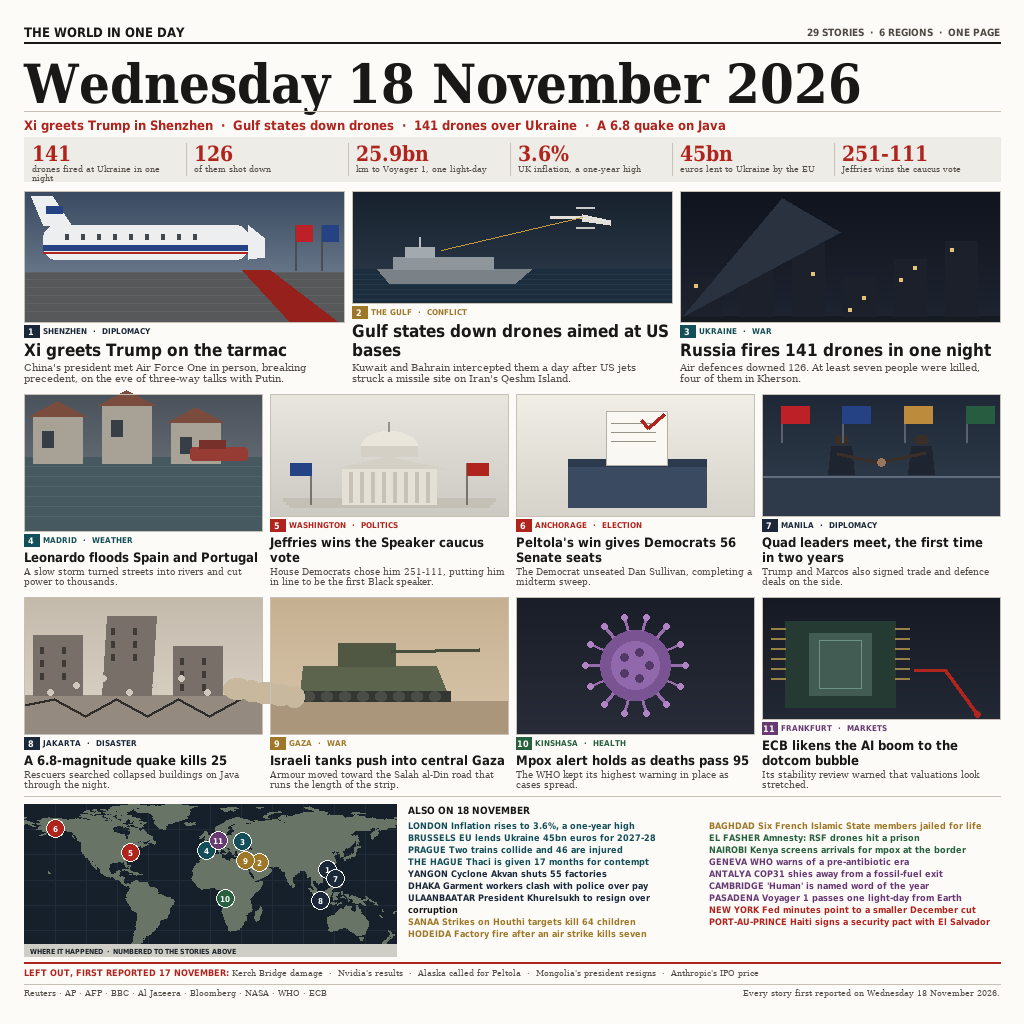
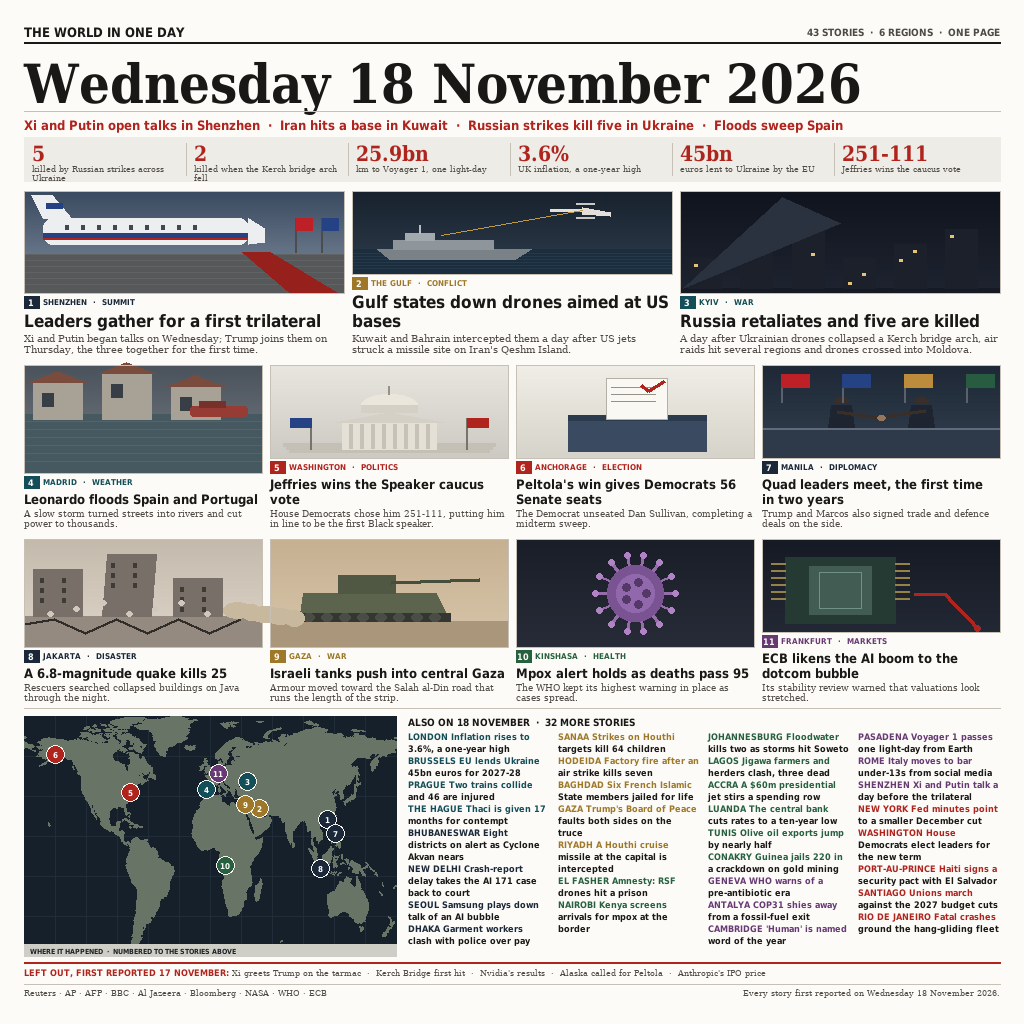
Broaden briefs to 32 stories in four columns at 8px, reframe Ukraine tile as the 18 Nov strike

diff --git a/src/render.py b/src/render.py
@@ -68,10 +68,10 @@ def F(kind: str, size: int):
 # --- the day's stories -----------------------------------------------------
 TILES = [
     {
-        "region": "Asia", "place": "Shenzhen", "topic": "Diplomacy",
-        "headline": "Xi greets Trump on the tarmac",
-        "deck": "China's president met Air Force One in person, breaking precedent, "
-                "on the eve of three-way talks with Putin.",
+        "region": "Asia", "place": "Shenzhen", "topic": "Summit",
+        "headline": "Leaders gather for a first trilateral",
+        "deck": "Xi and Putin began talks on Wednesday; Trump joins them on Thursday, "
+                "the three together for the first time.",
         "art": "tarmac",
     },
     {
@@ -82,10 +82,10 @@ TILES = [
         "art": "drones",
     },
     {
-        "region": "Europe", "place": "Ukraine", "topic": "War",
-        "headline": "Russia fires 141 drones in one night",
-        "deck": "Air defences downed 126. At least seven people were killed, four "
-                "of them in Kherson.",
+        "region": "Europe", "place": "Kyiv", "topic": "War",
+        "headline": "Russia retaliates and five are killed",
+        "deck": "A day after Ukrainian drones collapsed a Kerch bridge arch, air "
+                "raids hit several regions and drones crossed into Moldova.",
         "art": "blackout",
     },
     {
@@ -145,25 +145,39 @@ BRIEFS = [
     ("Europe", "Brussels", "EU lends Ukraine 45bn euros for 2027-28"),
     ("Europe", "Prague", "Two trains collide and 46 are injured"),
     ("Europe", "The Hague", "Thaci is given 17 months for contempt"),
-    ("Asia", "Yangon", "Cyclone Akvan shuts 55 factories"),
+    ("Asia", "Bhubaneswar", "Eight districts on alert as Cyclone Akvan nears"),
+    ("Asia", "New Delhi", "Crash-report delay takes the AI 171 case back to court"),
+    ("Asia", "Seoul", "Samsung plays down talk of an AI bubble"),
     ("Asia", "Dhaka", "Garment workers clash with police over pay"),
-    ("Asia", "Ulaanbaatar", "President Khurelsukh to resign over corruption"),
     ("MidEast", "Sanaa", "Strikes on Houthi targets kill 64 children"),
     ("MidEast", "Hodeida", "Factory fire after an air strike kills seven"),
     ("MidEast", "Baghdad", "Six French Islamic State members jailed for life"),
+    ("MidEast", "Gaza", "Trump's Board of Peace faults both sides on the truce"),
+    ("MidEast", "Riyadh", "A Houthi cruise missile at the capital is intercepted"),
     ("Africa", "El Fasher", "Amnesty: RSF drones hit a prison"),
     ("Africa", "Nairobi", "Kenya screens arrivals for mpox at the border"),
+    ("Africa", "Johannesburg", "Floodwater kills two as storms hit Soweto"),
+    ("Africa", "Lagos", "Jigawa farmers and herders clash, three dead"),
+    ("Africa", "Accra", "A $60m presidential jet stirs a spending row"),
+    ("Africa", "Luanda", "The central bank cuts rates to a ten-year low"),
+    ("Africa", "Tunis", "Olive oil exports jump by nearly half"),
+    ("Africa", "Conakry", "Guinea jails 220 in a crackdown on gold mining"),
     ("World", "Geneva", "WHO warns of a pre-antibiotic era"),
     ("World", "Antalya", "COP31 shies away from a fossil-fuel exit"),
     ("World", "Cambridge", "'Human' is named word of the year"),
     ("World", "Pasadena", "Voyager 1 passes one light-day from Earth"),
+    ("World", "Rome", "Italy moves to bar under-13s from social media"),
+    ("World", "Shenzhen", "Xi and Putin talk a day before the trilateral"),
     ("Americas", "New York", "Fed minutes point to a smaller December cut"),
+    ("Americas", "Washington", "House Democrats elect leaders for the new term"),
     ("Americas", "Port-au-Prince", "Haiti signs a security pact with El Salvador"),
+    ("Americas", "Santiago", "Unions march against the 2027 budget cuts"),
+    ("Americas", "Rio de Janeiro", "Fatal crashes ground the hang-gliding fleet"),
 ]
 
 NUMBERS = [
-    ("141", "drones fired at Ukraine in one night"),
-    ("126", "of them shot down"),
+    ("5", "killed by Russian strikes across Ukraine"),
+    ("2", "killed when the Kerch bridge arch fell"),
     ("25.9bn", "km to Voyager 1, one light-day"),
     ("3.6%", "UK inflation, a one-year high"),
     ("45bn", "euros lent to Ukraine by the EU"),
@@ -171,16 +185,16 @@ NUMBERS = [
 ]
 
 DATE_CHECK = [
-    "Kerch Bridge damage",
+    "Xi greets Trump on the tarmac",
+    "Kerch Bridge first hit",
     "Nvidia's results",
     "Alaska called for Peltola",
-    "Mongolia's president resigns",
     "Anthropic's IPO price",
 ]
 
 BILLBOARD = (
-    "Xi greets Trump in Shenzhen  ·  Gulf states down drones  ·  "
-    "141 drones over Ukraine  ·  A 6.8 quake on Java"
+    "Xi and Putin open talks in Shenzhen  ·  Iran hits a base in Kuwait  ·  "
+    "Russian strikes kill five in Ukraine  ·  Floods sweep Spain"
 )
 
 
@@ -636,7 +650,7 @@ def draw_map(draw, box, pins):
 PINS = [
     (114.06, 22.54, NAVY, 1),
     (48.0, 29.0, GOLD, 2),
-    (31.0, 49.0, TEAL, 3),
+    (36.5, 45.3, TEAL, 3),
     (-3.7, 40.4, TEAL, 4),
     (-77.0, 38.9, RED, 5),
     (-149.9, 61.2, RED, 6),
@@ -693,7 +707,7 @@ def build(out_path: str) -> None:
     y += strip_h + 10
 
     # ---- the tiles: three wide, then two rows of four ----
-    rail_h = 152
+    rail_h = 240
     rail_top = BOTTOM - 44 - rail_h
     tile_top = y
     rows = [[0, 1, 2], [3, 4, 5, 6], [7, 8, 9, 10]]
@@ -761,36 +775,48 @@ def build(out_path: str) -> None:
 
     bx = MARGIN + map_w + 12
     bw = W - MARGIN - bx
-    d.text((bx, rail_top), "ALSO ON 18 NOVEMBER", font=F("sans_cb", 10), fill=INK)
-    by = rail_top + 16
+    d.text((bx, rail_top), f"ALSO ON 18 NOVEMBER  ·  {len(BRIEFS)} MORE STORIES",
+           font=F("sans_cb", 10), fill=INK)
+    by = rail_top + 15
+    room = rail_top + rail_h - by - 2
 
-    colw = (bw - 10) // 2
+    # The briefs are the page's breadth, so they get the whole rail. Largest
+    # type first — the judge reads a 300px thumbnail before it reads a word —
+    # then the column count that lets that size fit. Line counts are measured
+    # with the real font, never guessed.
+    wrapped = []
+    chosen = None
     for size in range(9, 5, -1):
         bfont = F("sans_cb", size)
         lead = size + 3
-        per_col = (rail_top + rail_h - by) // lead
-        total = sum(len(wrap(d, f"{city.upper()}  {text}", bfont, colw))
-                    for _, city, text in BRIEFS)
-        if total <= per_col * 2:
+        per_col = room // lead
+        for ncol in (3, 4, 2, 5):
+            gut = 9
+            colw = (bw - gut * (ncol - 1)) // ncol
+            wrapped = [(region, wrap(d, f"{city.upper()}  {text}", bfont, colw))
+                       for region, city, text in BRIEFS]
+            total = sum(len(ls) for _, ls in wrapped)
+            if total <= per_col * ncol:
+                chosen = (ncol, gut, colw, bfont, lead, per_col, total)
+                break
+        if chosen:
             break
+    assert chosen, "the briefs do not fit any column count"
+    ncol, gut, colw, bfont, lead, per_col, total = chosen
 
-    # balance the two columns by line count, not by first-fit: 18 briefs in a
-    # 10/8 split leaves one column hanging
-    wrapped = [(region, wrap(d, f"{city.upper()}  {text}", bfont, colw))
-               for region, city, text in BRIEFS]
-    total = sum(len(ls) for _, ls in wrapped)
-    target = (total + 1) // 2
-
+    # Fill column by column, breaking only where the next brief would overrun,
+    # so every column ends near the same height instead of one hanging short.
     col, cy, used = 0, by, 0
     for region, lines in wrapped:
-        if col == 0 and used + len(lines) > target and used > 0:
-            col, cy, used = 1, by, 0
-        cx = bx + col * (colw + 10)
+        if used + len(lines) > per_col and col < ncol - 1:
+            col, cy, used = col + 1, by, 0
+        cx = bx + col * (colw + gut)
         for j, ln in enumerate(lines):
             d.text((cx, cy), ln, font=bfont,
                    fill=REGION_COLOUR[region] if j == 0 else INK)
             cy += lead
         used += len(lines)
+    assert cy <= rail_top + rail_h, (cy, rail_top + rail_h)
 
     # ---- date check and footer ----
     yb = BOTTOM - 38

diff --git a/README.md b/README.md
@@ -21,8 +21,8 @@ is about and ranks an unnamed day below a named one. Below it:
   box, a tank outside Gaza;
 - a world map with a numbered pin for every tile, so the page shows where it
   happened;
-- two columns of one-line briefs under the map, 18 more stories from six
-  regions.
+- four columns of one-line briefs under the map, 32 more stories from six
+  regions, at the largest type that fits the rail.
 
 Everything on the page happened, or was first reported, on 18 November 2026. A
 footer names what the day's date rule kept out.
@@ -32,9 +32,10 @@ footer names what the day's date rule kept out.
 `src/render.py` draws the page with Pillow and writes `entry.png`, using
 coastlines from Natural Earth 1:110m packed into `land.json`. The drawing is
 measured rather than eyeballed: each tile's headline and deck are wrapped with
-the real font first, and the art takes whatever height is left, so editing the
-copy cannot push anything off the page. The renderer is deterministic, so
-`entry.png` can be rebuilt byte for byte from the source.
+the real font first, the art takes whatever height is left, and the briefs block
+picks its own type size and column count from the measured line counts, so
+editing the copy cannot push anything off the page. The renderer is
+deterministic, so `entry.png` can be rebuilt byte for byte from the source.
 
 ```sh
 python3 src/render.py entry.png
